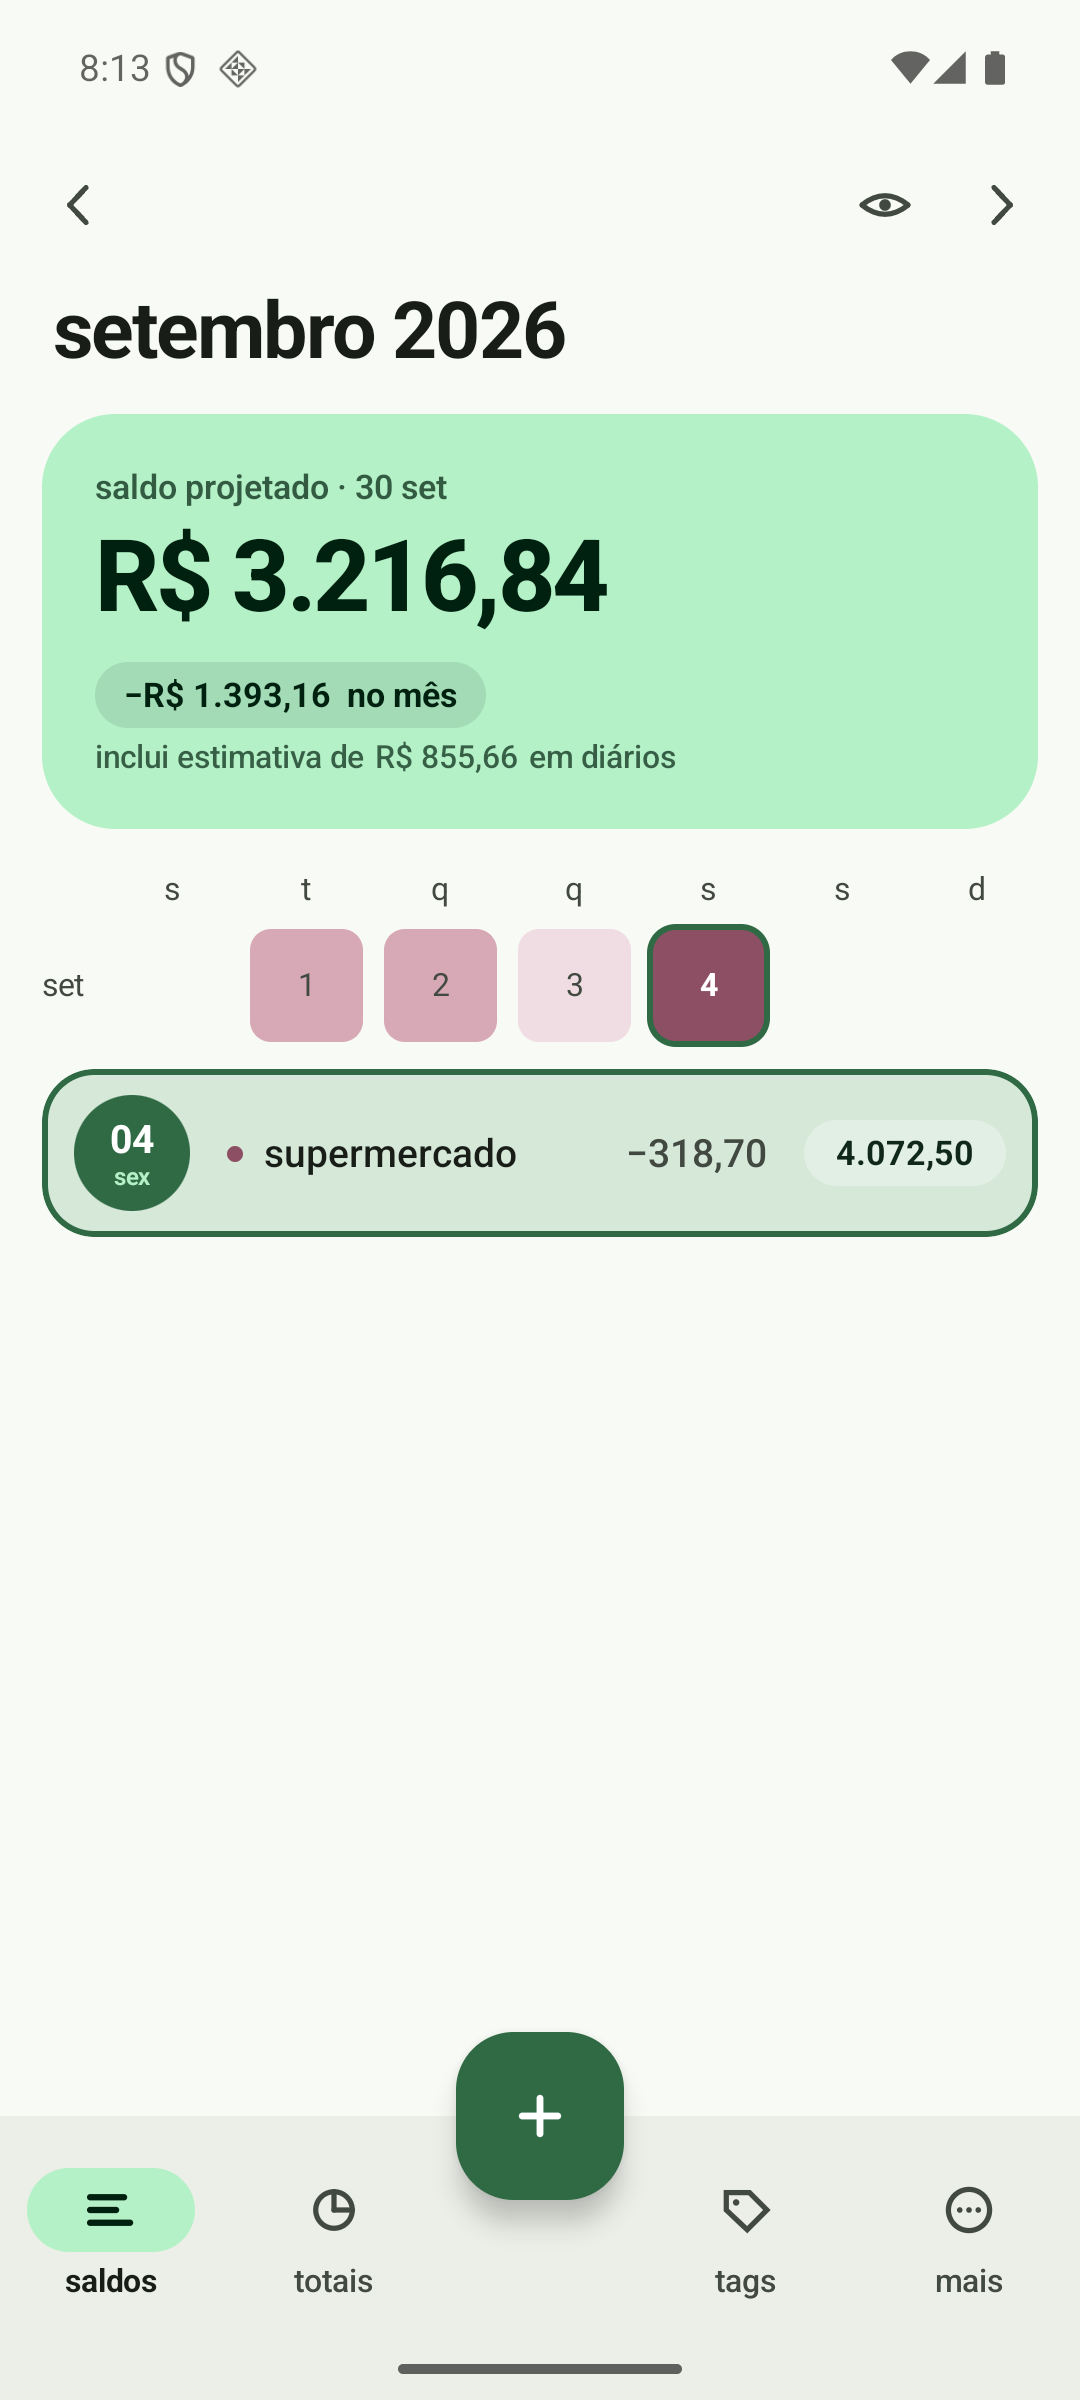
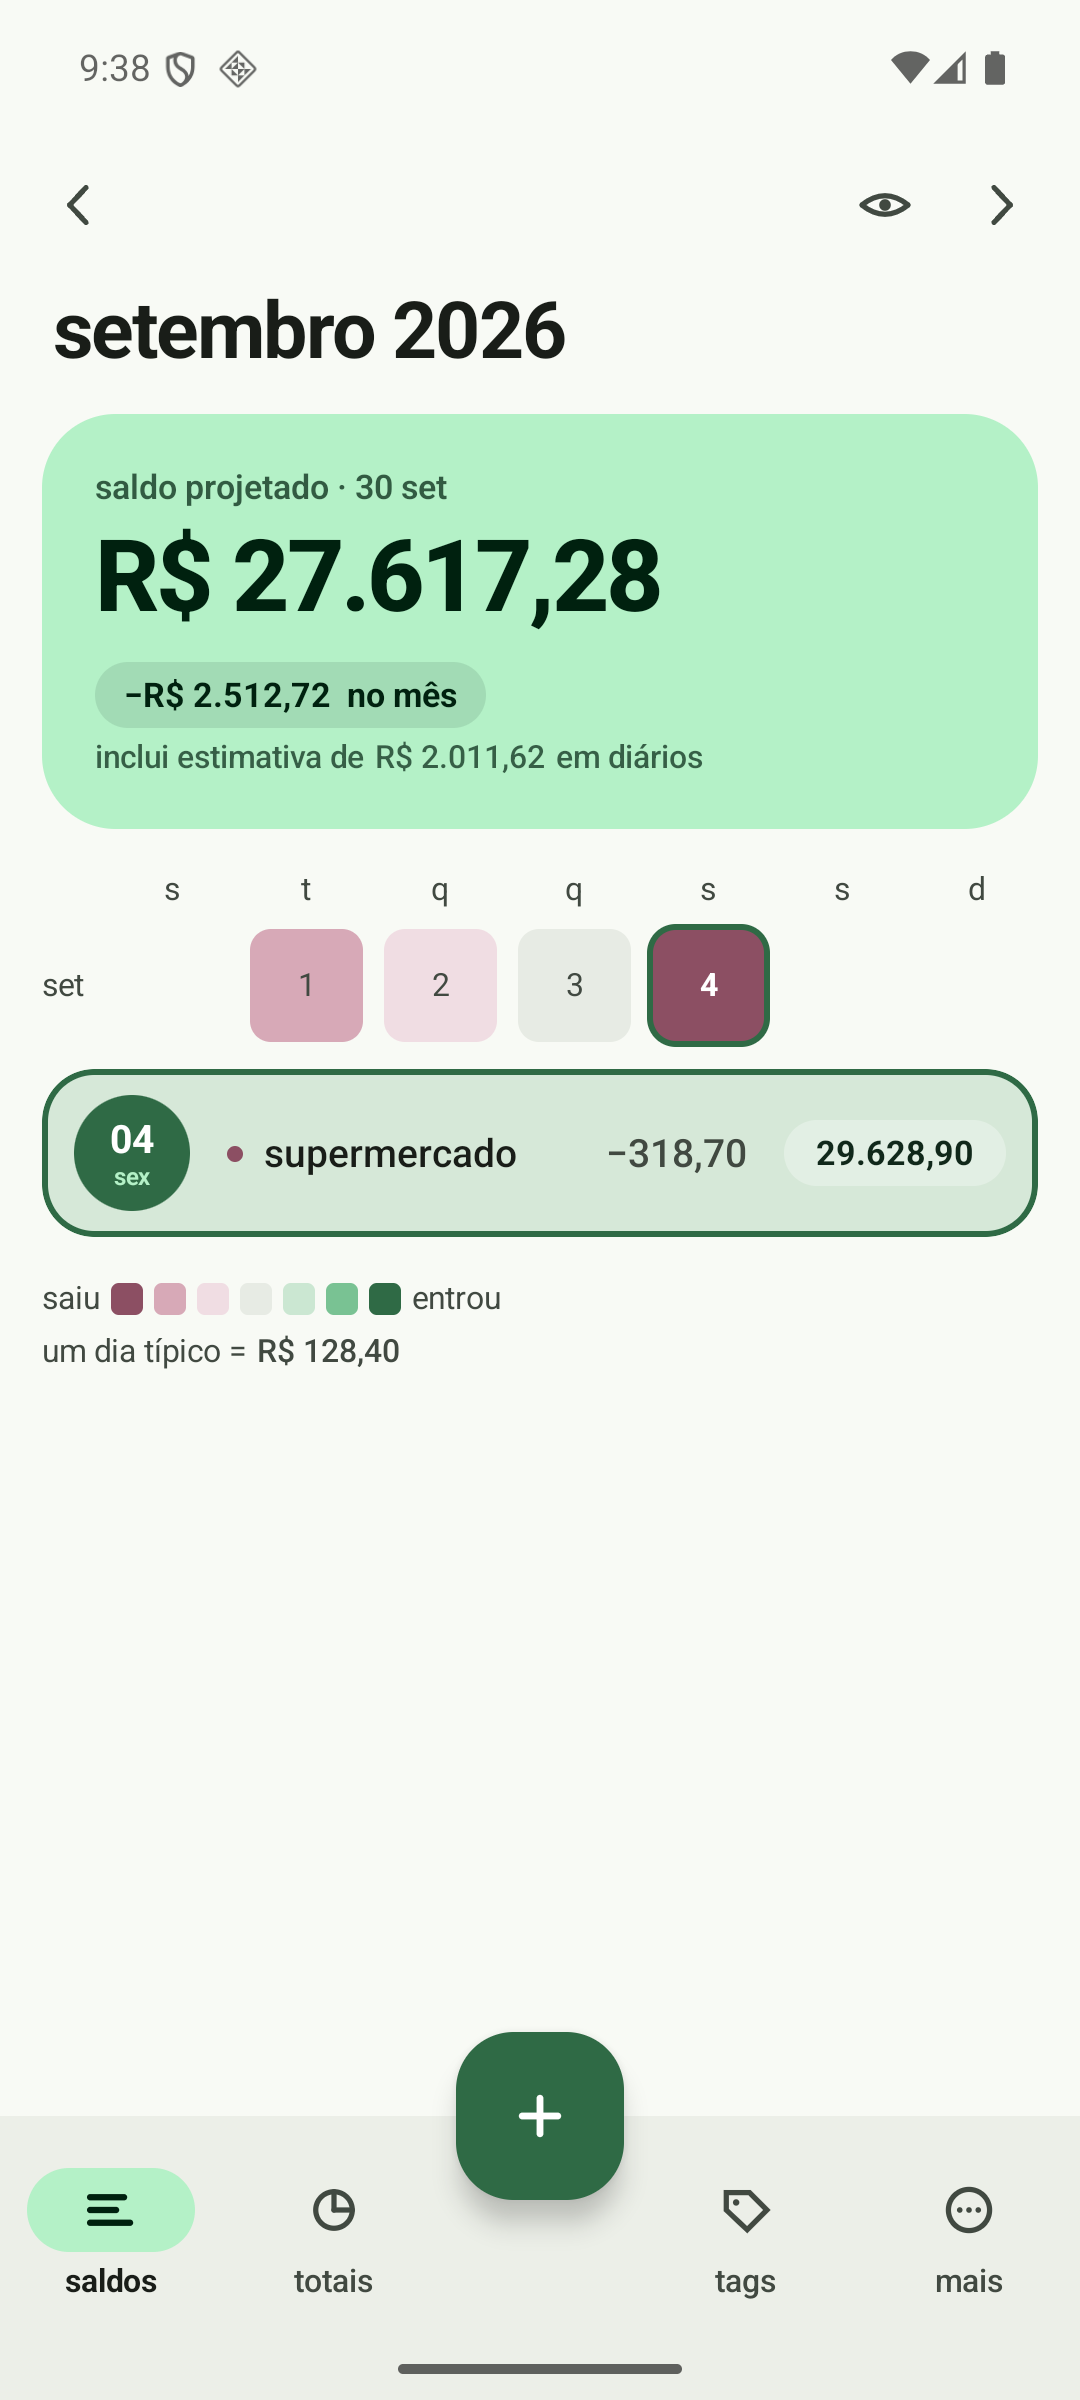
fix: costume zerado neste ponto do mês não é "sem mês anterior"
A captura pegou: com cinco meses de histórico semeado, o ritmo dizia "sem
mês anterior" e "costume R$ 0,00". O motor estava certo — no dia 4, os
meses anteriores realmente não tinham gasto nada ainda —, mas a tela
juntava dois casos que não são o mesmo: não haver com que comparar, e a
comparação valer zero neste ponto do mês.

O primeiro é falta de histórico; o segundo acontece todo começo de mês para
quem tem seis meses dele. `Ritmo.temComparacao` separa os dois, e agora a
tela diz "acima do costume" — sem porcentagem, porque dividir por zero não
dá — em vez de mentir que não há histórico. O widget do ritmo faz a mesma
distinção.

As capturas ficam em docs/superpowers/screenshots/2026-09-04-home/, agora
semeadas com gasto desde o dia 2 dos meses anteriores; é o que faz a
comparação existir no começo do mês. O ritmo lê "148% acima do costume".

142 instrumentados, 285 JVM, lint 0 erros.

Claude-Session: https://claude.ai/code/session_01CWNUDWLP6iaTXWAB7CgTqh

diff --git a/app/src/main/kotlin/com/scholze/saldo/widget/RitmoWidget.kt b/app/src/main/kotlin/com/scholze/saldo/widget/RitmoWidget.kt
@@ -50,6 +50,9 @@ sealed interface RitmoWidgetEstado {
         val diasDecorridos: Int,
         val gastoCentavos: Long,
         val desvioPercentual: Int?,
+        /** Há mês anterior com que comparar, mesmo que o costume aqui seja zero. */
+        val temComparacao: Boolean,
+        val gastouAlgo: Boolean,
         val fracao: Float,
         val fracaoCostume: Float,
         val mostrarValores: Boolean,
@@ -76,6 +79,8 @@ class RitmoWidget : GlanceAppWidget() {
                     diasDecorridos = r.acumulado.size,
                     gastoCentavos = r.gastoAteAgora,
                     desvioPercentual = r.desvioPercentual,
+                    temComparacao = r.temComparacao,
+                    gastouAlgo = r.gastoAteAgora > 0,
                     fracao = if (maior > 0) r.gastoAteAgora.toFloat() / maior else 0f,
                     fracaoCostume = if (maior > 0) r.referenciaAteAgora.toFloat() / maior else 0f,
                     mostrarValores = carga.mostrarValores,
@@ -126,10 +131,10 @@ private fun CorpoRitmo(estado: RitmoWidgetEstado.Pronto) {
             )
         }
         Text(
-            textoDoDesvio(estado.desvioPercentual),
+            textoDoDesvio(estado.desvioPercentual, estado.temComparacao, estado.gastouAlgo),
             modifier = GlanceModifier.semantics { testTag = TAG_RITMO_DESVIO },
             style = TextStyle(
-                color = if ((estado.desvioPercentual ?: 0) > 0) CoresWidget.negativo else CoresWidget.secundario,
+                color = if (acimaDoCostume(estado)) CoresWidget.negativo else CoresWidget.secundario,
                 fontSize = 12.sp,
             ),
             maxLines = 1,
@@ -171,11 +176,22 @@ internal fun pesoCheio(fracao: Float): Int =
 
 internal const val PESO_TOTAL = 12
 
-internal fun textoDoDesvio(desvio: Int?): String = when {
-    desvio == null -> "sem comparação"
+/**
+ * [temComparacao] separa "não há mês anterior" de "o costume neste ponto do mês era zero" —
+ * no dia 3, o segundo é comum e não quer dizer que falte histórico.
+ */
+internal fun textoDoDesvio(desvio: Int?, temComparacao: Boolean, gastouAlgo: Boolean): String = when {
+    !temComparacao -> "sem comparação"
+    desvio == null -> if (gastouAlgo) "acima do costume" else "no costume"
     desvio > 0 -> "+" + desvio + "% vs costume"
     desvio < 0 -> desvio.toString() + "% vs costume"
     else -> "no costume"
+}
+
+/** Gastando mais do que o costume — com ou sem porcentagem para expressar quanto. */
+internal fun acimaDoCostume(estado: RitmoWidgetEstado.Pronto): Boolean {
+    if (!estado.temComparacao) return false
+    return (estado.desvioPercentual ?: return estado.gastouAlgo) > 0
 }
 
 @Composable

diff --git a/app/src/test/kotlin/com/scholze/saldo/widget/WidgetsGraficosTest.kt b/app/src/test/kotlin/com/scholze/saldo/widget/WidgetsGraficosTest.kt
@@ -106,6 +106,8 @@ class WidgetsGraficosTest {
         diasDecorridos = 12,
         gastoCentavos = 1_240_00,
         desvioPercentual = 24,
+        temComparacao = true,
+        gastouAlgo = true,
         fracao = 1f,
         fracaoCostume = 0.8f,
         mostrarValores = true,
@@ -132,16 +134,32 @@ class WidgetsGraficosTest {
     @Test
     fun ritmoSemMesAnteriorDizQueNaoHaComparacao() = runGlanceAppWidgetUnitTest {
         setAppWidgetSize(FAIXA)
-        provideComposable { RitmoWidgetContent(ritmo.copy(desvioPercentual = null)) }
+        provideComposable {
+            RitmoWidgetContent(ritmo.copy(desvioPercentual = null, temComparacao = false))
+        }
         onNode(hasTestTag(TAG_RITMO_DESVIO)).assertHasText("sem comparação")
+    }
+
+    /** Com histórico mas costume zerado neste ponto do mês, ainda dá para dizer o lado. */
+    @Test
+    fun ritmoComCostumeZeradoDizQueEstaAcima() = runGlanceAppWidgetUnitTest {
+        setAppWidgetSize(FAIXA)
+        provideComposable { RitmoWidgetContent(ritmo.copy(desvioPercentual = null)) }
+        onNode(hasTestTag(TAG_RITMO_DESVIO)).assertHasText("acima do costume")
     }
 
     @Test
     fun `o texto do desvio muda de sinal`() {
-        assertEquals("+24% vs costume", textoDoDesvio(24))
-        assertEquals("-24% vs costume", textoDoDesvio(-24))
-        assertEquals("no costume", textoDoDesvio(0))
-        assertEquals("sem comparação", textoDoDesvio(null))
+        assertEquals("+24% vs costume", textoDoDesvio(24, temComparacao = true, gastouAlgo = true))
+        assertEquals("-24% vs costume", textoDoDesvio(-24, temComparacao = true, gastouAlgo = true))
+        assertEquals("no costume", textoDoDesvio(0, temComparacao = true, gastouAlgo = true))
+    }
+
+    @Test
+    fun `sem comparacao e costume zerado dizem coisas diferentes`() {
+        assertEquals("sem comparação", textoDoDesvio(null, temComparacao = false, gastouAlgo = true))
+        assertEquals("acima do costume", textoDoDesvio(null, temComparacao = true, gastouAlgo = true))
+        assertEquals("no costume", textoDoDesvio(null, temComparacao = true, gastouAlgo = false))
     }
 
     @Test

diff --git a/app/src/main/kotlin/com/scholze/saldo/ui/totais/TotaisScreen.kt b/app/src/main/kotlin/com/scholze/saldo/ui/totais/TotaisScreen.kt
@@ -215,6 +215,13 @@ private fun LinhaValor(rotulo: String, centavos: Long, cor: Color? = null) {
  * diferença apareceu. Sem mês anterior com que comparar, o bloco diz isso em vez de
  * desenhar uma referência inventada.
  */
+/** Gastando mais do que o costume — com ou sem porcentagem para expressar quanto. */
+private fun acimaDoCostume(ritmo: Ritmo): Boolean {
+    if (!ritmo.temComparacao) return false
+    val desvio = ritmo.desvioPercentual ?: return ritmo.gastoAteAgora > 0
+    return desvio > 0
+}
+
 @Composable
 private fun BlocoRitmo(ritmo: Ritmo) {
     val colors = SaldoTheme.colors
@@ -235,7 +242,10 @@ private fun BlocoRitmo(ritmo: Ritmo) {
                 val desvio = ritmo.desvioPercentual
                 Text(
                     text = when {
-                        desvio == null -> "sem mês anterior"
+                        !ritmo.temComparacao -> "sem mês anterior"
+                        // Há comparação, mas o costume neste ponto do mês era zero: não há
+                        // porcentagem, e mesmo assim dá para dizer de que lado se está.
+                        desvio == null -> if (ritmo.gastoAteAgora > 0) "acima do costume" else "no costume"
                         desvio > 0 -> "$desvio% acima do costume"
                         desvio < 0 -> "${-desvio}% abaixo do costume"
                         else -> "no costume"
@@ -243,7 +253,7 @@ private fun BlocoRitmo(ritmo: Ritmo) {
                     style = SaldoTheme.type.footnote,
                     // Gastar mais que o costume não é erro, é informação: o tom forte fica
                     // para o lado que pesa, e o resto é secundário.
-                    color = if (desvio != null && desvio > 0) colors.categoryVariable else colors.secondaryLabel,
+                    color = if (acimaDoCostume(ritmo)) colors.categoryVariable else colors.secondaryLabel,
                 )
             }
 

diff --git a/app/src/test/kotlin/com/scholze/saldo/domain/RitmoEngineTest.kt b/app/src/test/kotlin/com/scholze/saldo/domain/RitmoEngineTest.kt
@@ -3,6 +3,7 @@ package com.scholze.saldo.domain
 import java.time.LocalDate
 import java.time.YearMonth
 import org.junit.Assert.assertEquals
+import org.junit.Assert.assertFalse
 import org.junit.Assert.assertNull
 import org.junit.Assert.assertTrue
 import org.junit.Test
@@ -163,6 +164,32 @@ class RitmoEngineTest {
     }
 
     // ---- o desvio ----
+
+    /**
+     * O caso que a captura pegou: existem meses anteriores, mas até ESTE dia do mês eles
+     * estavam zerados. Não há porcentagem, e ainda assim há comparação — dizer "sem mês
+     * anterior" aqui é mentira para quem tem seis meses de histórico.
+     */
+    @Test
+    fun `costume zerado neste ponto do mes ainda e comparacao`() {
+        val r = setembro(
+            listOf(
+                mov(LocalDate.of(2026, 9, 1), -5_000),
+                // Agosto só gastou no dia 20: no dia 4, o costume dele era zero.
+                mov(LocalDate.of(2026, 8, 20), -90_000),
+            ),
+        )
+        assertTrue(r.temComparacao)
+        assertEquals(0L, r.referenciaAteAgora)
+        assertNull(r.desvioPercentual)
+    }
+
+    @Test
+    fun `sem mes anterior nao ha comparacao nenhuma`() {
+        val r = setembro(emptyList())
+        assertFalse(r.temComparacao)
+        assertNull(r.desvioPercentual)
+    }
 
     @Test
     fun `desvio positivo quer dizer gastando mais que o costume`() {

diff --git a/app/src/main/kotlin/com/scholze/saldo/domain/RitmoEngine.kt b/app/src/main/kotlin/com/scholze/saldo/domain/RitmoEngine.kt
@@ -24,13 +24,25 @@ data class Ritmo(
     val referenciaAteAgora: Long get() = referencia.lastOrNull() ?: 0L
 
     /**
-     * Quanto por cento acima (positivo) ou abaixo (negativo) do costume, hoje. `null` quando
-     * não há com que comparar — o que é diferente de "está igual".
+     * Existe mês anterior com que comparar.
+     *
+     * É diferente de [desvioPercentual] ser `null`: no dia 3 de um mês, o costume dos meses
+     * anteriores no dia 3 pode ser legitimamente zero — ninguém tinha gasto nada ainda —, e
+     * aí não há porcentagem possível mas há comparação. Tratar os dois casos como um só
+     * fazia a tela dizer "sem mês anterior" para quem tem seis meses de histórico.
+     */
+    val temComparacao: Boolean get() = mesesComparados > 0
+
+    /**
+     * Quanto por cento acima (positivo) ou abaixo (negativo) do costume, hoje.
+     *
+     * `null` nos dois casos em que a divisão não existe: sem mês anterior, e com o costume
+     * zerado neste ponto do mês. Quem mostra distingue os dois por [temComparacao].
      */
     val desvioPercentual: Int?
         get() {
             val base = referenciaAteAgora
-            if (referencia.isEmpty() || base <= 0L) return null
+            if (!temComparacao || base <= 0L) return null
             return (((gastoAteAgora - base) * 100) / base).toInt()
         }
 }

diff --git a/app/src/androidTest/kotlin/com/scholze/saldo/ui/totais/TotaisContentTest.kt b/app/src/androidTest/kotlin/com/scholze/saldo/ui/totais/TotaisContentTest.kt
@@ -411,6 +411,22 @@ class TotaisContentTest {
         rule.onNodeWithText("50% acima do costume").assertIsDisplayed()
     }
 
+    /**
+     * O caso que a captura pegou: há meses anteriores, mas até este dia do mês eles estavam
+     * zerados. Não há porcentagem — e ainda assim não é "sem mês anterior".
+     */
+    @Test
+    fun comCostumeZeradoORitmoDizSoOLado() {
+        montar(
+            TotaisUiState(
+                YearMonth.of(2026, 7), totais,
+                ritmo = ritmo.copy(referencia = listOf(0L, 0L, 0L, 0L)),
+            ),
+        )
+        rule.onNodeWithText("ritmo do mês").performScrollTo().assertIsDisplayed()
+        rule.onNodeWithText("acima do costume").assertIsDisplayed()
+    }
+
     @Test
     fun semMesAnteriorORitmoDizQueNaoHaComparacao() {
         montar(

diff --git a/docs/superpowers/screenshots/2026-09-04-home/README.md b/docs/superpowers/screenshots/2026-09-04-home/README.md
@@ -2,6 +2,11 @@
 
 `01-home-board.png` — a aba `saldos` com a grade do mês, hoje com o anel do tint e o painel
 do dia aberto embaixo. `02-totais-ritmo.png` — `totais › mês` com o bloco do ritmo.
+`03-para-onde-foi-no-tempo.png` — as tags empilhadas nos seis meses.
+
+Falta a da poupança mês a mês: a seção fica abaixo da dobra e o `performScrollTo` recusa
+naquele ponto (o nó não tem ancestral rolável no instante da busca). As barras estão
+cobertas por teste; a captura fica para quando alguém rolar à mão.
 
 ## como recapturar
 
